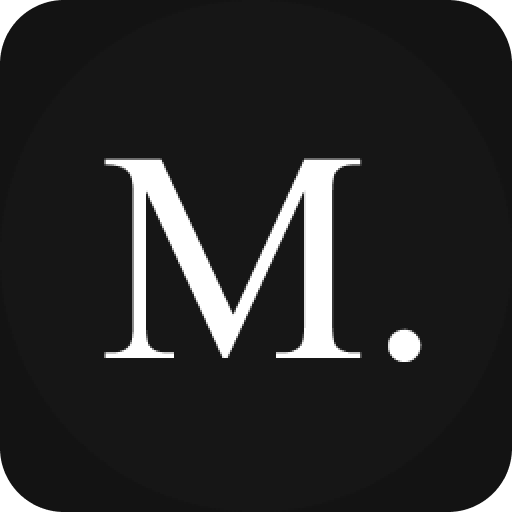
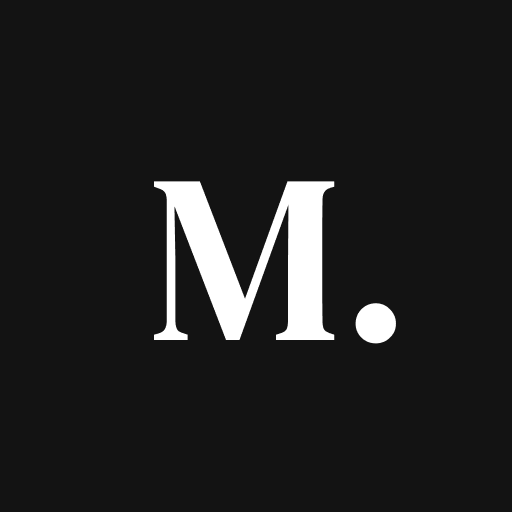
fix: use og with 256 to whatsapp stop crying

diff --git a/app/constants.ts b/app/constants.ts
@@ -35,7 +35,7 @@ export const configs = {
     pageURL: "https://marco-pages-dev.pages.dev",
     images: {
       icon: "/favicon.ico",
-      og: "/images/marco.og.png",
+      og: "/images/marco.og.256.png",
       logo: "/images/marco.logo.png",
     },
   },
